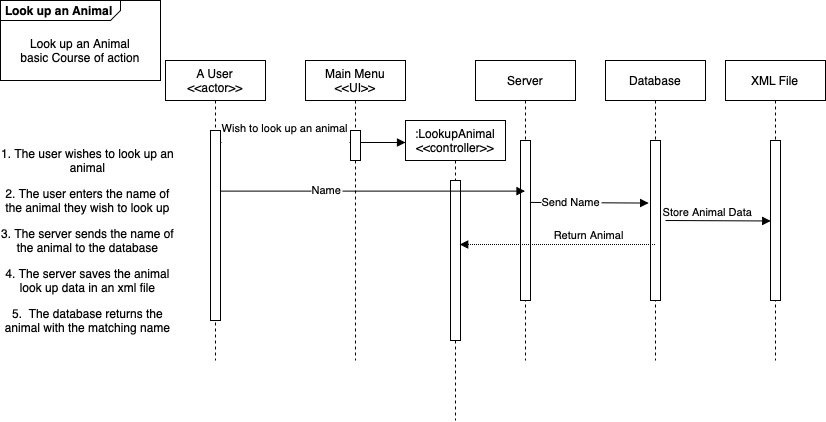
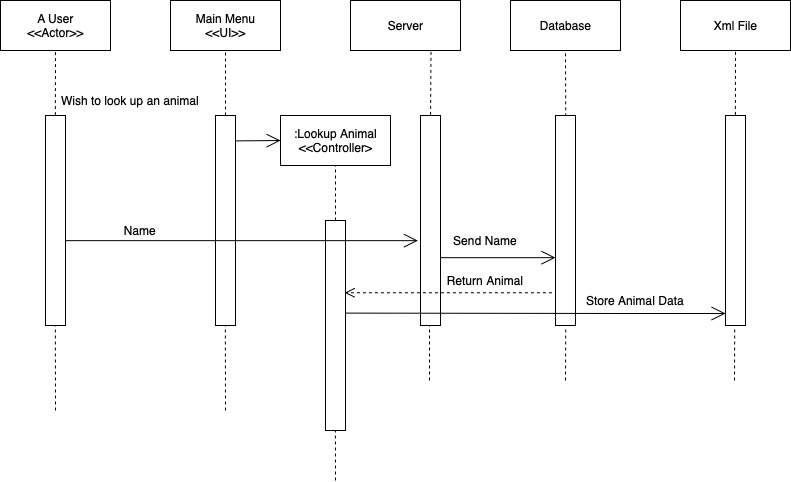
Updated Server and client code and changed Sequence Diagram

diff --git a/src/main/java/edu/kcc/Main.java b/src/main/java/edu/kcc/Main.java
@@ -58,7 +58,7 @@ public class Main {
                     String AnimalName = UIUtility.getUserString(question);
                     UIUtility.showMessage("Searching for Animal " + AnimalName
                             + "...");
-                    getAnimalFromServer(AnimalName);
+                    System.out.println(getAnimalFromServer(AnimalName));
                     
                     break;
                 case "2":
@@ -80,33 +80,36 @@ public class Main {
         Socket socket = new Socket(HOST_NAME, PORT);
         DataInputStream inputStream = new DataInputStream(socket.getInputStream());
         DataOutputStream outputStream = new DataOutputStream(socket.getOutputStream());
+        DateTimeFormatter Dateformatter = DateTimeFormatter.ofPattern("yyyy-MM-dd")
+                            .withLocale(Locale.US);
+        DateTimeFormatter DateTimeformatter = DateTimeFormatter.ofPattern("yyyy-MM-dd HH:mm:ss")
+                            .withLocale(Locale.US);
         outputStream.writeUTF(AnimalName);
         outputStream.flush();
         
         String animalID = inputStream.readUTF();
-        String animalSpecies = inputStream.readUTF();
+        String animalName = inputStream.readUTF();
         String animalGender = inputStream.readUTF();
+        String animalSpecies = inputStream.readUTF();
+
         int animalAge = inputStream.readInt();
         boolean animalFixed = inputStream.readBoolean();
         int animalLegs = inputStream.readInt();
         BigDecimal animalWeight = new BigDecimal
         (inputStream.readDouble(), MathContext.DECIMAL32);
-        DateTimeFormatter Dateformatter = DateTimeFormatter.ofPattern("yyyy-MM-dd")
-                            .withLocale(Locale.US);
-        DateTimeFormatter DateTimeformatter = DateTimeFormatter.ofPattern("yyyy-MM-dd HH:mm:ss")
-                            .withLocale(Locale.US);
         
         String animalDateAddedUnformmated = inputStream.readUTF();
         String animalLastFeedingTimeUnformatted = inputStream.readUTF();
         LocalDate animalDateAddedFormatted = LocalDate.parse(animalDateAddedUnformmated, Dateformatter);
         LocalDateTime animalLastFeedingTimeFormatted = LocalDateTime.parse(animalLastFeedingTimeUnformatted, DateTimeformatter);
-        
-    
+        System.out.println(animalDateAddedFormatted);
         inputStream.close();
         outputStream.close();
-        Animal animal = new Animal(AnimalName, animalID, animalSpecies, 
-                animalGender, animalAge, animalFixed, animalLegs, animalWeight,
+        
+            Animal animal = new Animal( animalID, animalName,
+                    animalSpecies, animalGender, animalAge, animalFixed, animalLegs, animalWeight,
                 animalDateAddedFormatted, animalLastFeedingTimeFormatted);
+            
         return animal;
     }
     

diff --git a/src/main/java/edu/kcc/animal/Animal.java b/src/main/java/edu/kcc/animal/Animal.java
@@ -85,7 +85,8 @@ public class Animal implements Comparable<Animal>{
   
     private void speciesValidator(String species) {
         if(!species.equals("cat") && !species.equals("dog") ){
-            throw new IllegalArgumentException("The species of must be either cat or dog");
+            throw new IllegalArgumentException("The species of must be either cat or dog" );
+            
         } 
     }
     
@@ -109,6 +110,7 @@ public class Animal implements Comparable<Animal>{
                     this.gender = gender;
             }
             else{
+                System.out.println(gender);
                 System.out.println("Please enter 'male' or 'female' for "
                                         + "gender.");
             }
@@ -227,7 +229,9 @@ public class Animal implements Comparable<Animal>{
     @Override
     public String toString() {
         return "Animal {name: " + name + ", species: " + species + ", gender: "
-                + gender + ", age: " + age + ", weight: " + weight + "}";
+                + gender + ", age: " + age + ", weight: " + weight + 
+                ", Date added: " + dateAdded + ", Last feeding time: " +
+                lastFeedingTime + "}";
     }
     
     @Override

diff --git a/README.md b/README.md
@@ -1,8 +1,9 @@
 # Java2 Final Project
 
 ## Use Case Diagram
-![Use Case Diagram](images/UseCase.jpg)
+![Use Case Diagram](images/AnimalUseCaseDiagram.jpg)
 
 ## Sequence Diagram
-
+![Use Case Diagram](images/AnimalSequenceDiagram.jpg)
 ## Class Diagram
+![Use Case Diagram](images/AnimalClassDiagramFinal.jpg)
